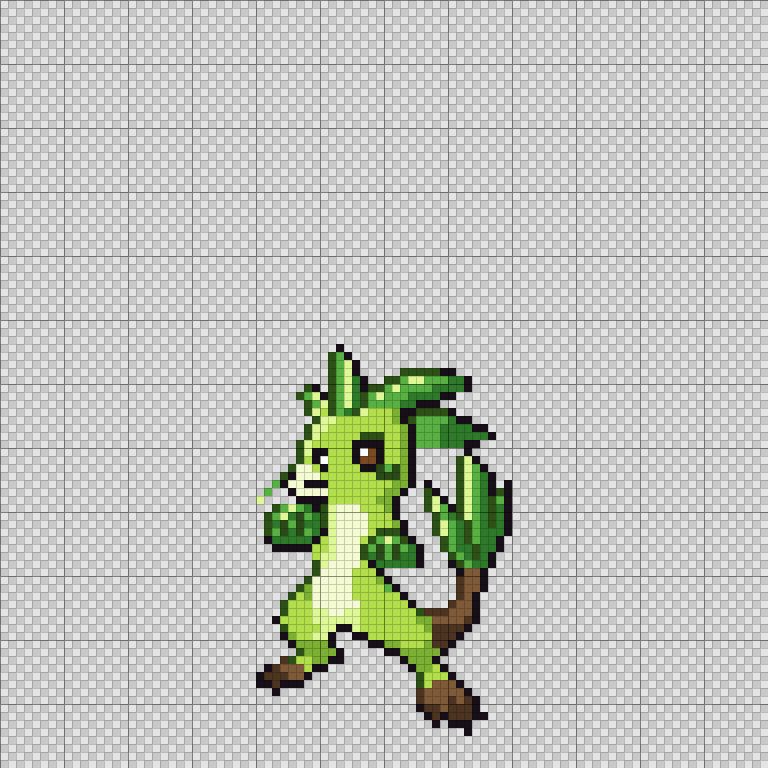
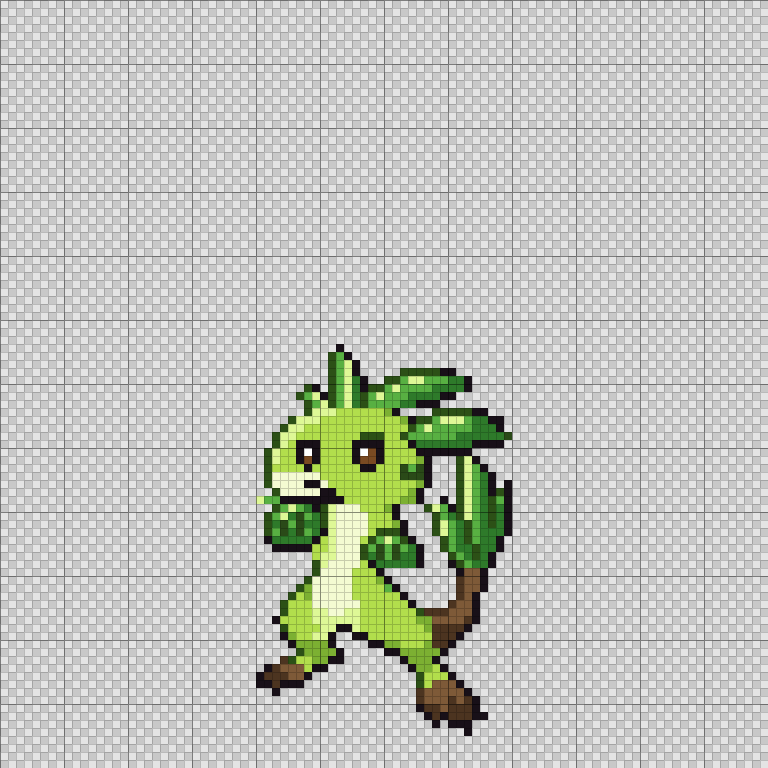
Sprigby: rebuild head on BW head anatomy (wide oval, low wide-set eyes, muzzle inside the face)
Claude-Session: https://claude.ai/code/session_01NDaBcuNY8LLNS1rzT9Z9Co

Changed region(s): [[0.3438, 0.5312, 0.6875, 0.6562]]

diff --git a/art/creatures/wip/sprigby6.px.js b/art/creatures/wip/sprigby6.px.js
@@ -21,52 +21,52 @@ pal({
 })
 
 sprite("sprigby6", { w: 96, h: 96 }, (c) => c.grid(32, 43, `
-  ..........k.....................
-  .........Dlk....................
-  .........DlLk...................
-  .........DlLk.....DDDDDkk.......
-  .........DlLgk..DDlLLlllggk.....
-  ......Dk.DlLgkDDlLllllggggk.....
-  .....DlLkDlLgDlLlllggggkk.......
-  ......DlLDlLgDllllggkkk.........
-  ......DLbDlgDLbbbskkDDDDk.......
-  .......DLLbbbbbbbskDllllgkk.....
-  ......DLLbbbbbbbbbsklllggggkk...
-  ......DLbbbbbDDDbbsklllggggggk..
-  .....DLbbbbbkkkkbbsklllgggkk....
-  .....DLkkbbbkwekbbsk......k.....
-  .....Dbkwbbbkeekbbsk.....DLk....
-  ....DccbkbbbbkkGlGsk.....DLlk...
-  ...DkcccbbbbbbbGGGsk.....DLlgk..
-  ..lkcckkkbbbbbbbbssk.k...DLlgk.k
-  .l..kccccbbbbbbbssk..Dk..DLlgkDk
-  L....kkkkbbbbbbssk...DLk.DLlgDlk
-  ..DlLlgkDLcccbbbsk...DLlkDLlgDgk
-  .DlLgGlgDLccccbbbk....DlgDLlgDgk
-  .DgGlGggDLccccbbbsk...DLlgDlgDgk
-  .DlGgGlgkLccccbDDDk...DLlgDlgggk
-  .kgggggkbLcccbDlLlDk...DlgDlggk.
-  ..kkkkkbbLcccDlGlGlgk..DlggDggk.
-  .......bLLcccDgGlGggk...DlgDgk..
-  .......DLccccbkgggggk...kDlggk..
-  .......Dccccbbbk.........kRRk...
-  ......Dcccccbbbsk........rRRk...
-  .....Dscccccbbbblk.......rRRk...
-  ....Dbscccccbbbbbbk......rRk....
-  ...Dbbbccccccbbbbbbk....rRRk....
-  ...DbbbLLccLLbbbbbbbDrrrRRRk....
-  ..kbbbbLLLLLLbbbbbbbssRRRRrk....
-  ...DbbbbLLkkLbbbbbbbbsrrrrk.....
-  ...ksbbLLk..kkbbbbbbbbrrrk......
-  ....kssssk....kkssbbbsrrk.......
-  .....Dssssk.....kksssssk........
-  ...rDbbsskk.......ksssk.........
-  .krRRRbkk..........kssbk........
-  krrrRRk.............Dbbbk.......
-  kkrkkk..............DbRRRk......
-  ..k.................rRRRRRk.....
-  ....................rRRRrRrk....
-  ....................krrRrrrk....
-  .....................krkrrrkk...
-  ......................k.kkk.....
-  ..........................k.....`))
+    ..........k
+    .........Dlk
+    .........DlLk
+    .........DlLk.....DDDDDkk
+    .........DlLgk..DDlLLlllggk
+    ......Dk.DlLgkDDlLllllggggk
+    .....DlLkDlLgDlLlllggggkk
+    ......DlLDlLgDllllggkkk
+    ......DLLLbbbbbbsk....DDDDDkk
+    ....DLLLbbbbbbbbbbskDDlLLLlggkk
+    ...DLLbbbbbbbbbbbbbDlLlllllgggk
+    ..DLLbbbbbbbbDDDbbDllllllggggggG
+    ..DLbkkkbbbbkkkkbbbkgggggggkkkk
+    .DLbbkwkbbbbkwekbbbbkkkkkkk
+    .DLbbkekbbbbkeekbbbbsk...DLk
+    .DbbbbkbbbbbbkkbbbGlGk...DLlk
+    .DccccccbbbbbbbbbbGGGk...DLlgk
+    .Dcccckkcbbbbbbbbbbbsk...DLlgk.k
+    ..Dccccckkbbbbbbbbbsk....DLlgkDk
+    Lllkkkkkkkkbbbbbbbssk..k.DLlgDlk
+    ..DlLlgkDLcccbbbsk...DLlkDLlgDgk
+    .DlLgGlgDLccccbbbk....DlgDLlgDgk
+    .DgGlGggDLccccbbbsk...DLlgDlgDgk
+    .DlGgGlgkLccccbDDDk...DLlgDlgggk
+    .kgggggkbLcccbDlLlDk...DlgDlggk
+    ..kkkkkbbLcccDlGlGlgk..DlggDggk
+    .......bLLcccDgGlGggk...DlgDgk
+    .......DLccccbkgggggk...kDlggk
+    .......Dccccbbbk.........kRRk
+    ......Dcccccbbbsk........rRRk
+    .....Dscccccbbbblk.......rRRk
+    ....Dbscccccbbbbbbk......rRk
+    ...Dbbbccccccbbbbbbk....rRRk
+    ...DbbbLLccLLbbbbbbbDrrrRRRk
+    ..kbbbbLLLLLLbbbbbbbssRRRRrk
+    ...DbbbbLLkkLbbbbbbbbsrrrrk
+    ...ksbbLLk..kkbbbbbbbbrrrk
+    ....kssssk....kkssbbbsrrk
+    .....Dssssk.....kksssssk
+    ...rDbbsskk.......ksssk
+    .krRRRbkk..........kssbk
+    krrrRRk.............Dbbbk
+    kkrkkk..............DbRRRk
+    ..k.................rRRRRRk
+    ....................rRRRrRrk
+    ....................krrRrrrk
+    .....................krkrrrkk
+    ......................k.kkk
+    ..........................k`))
